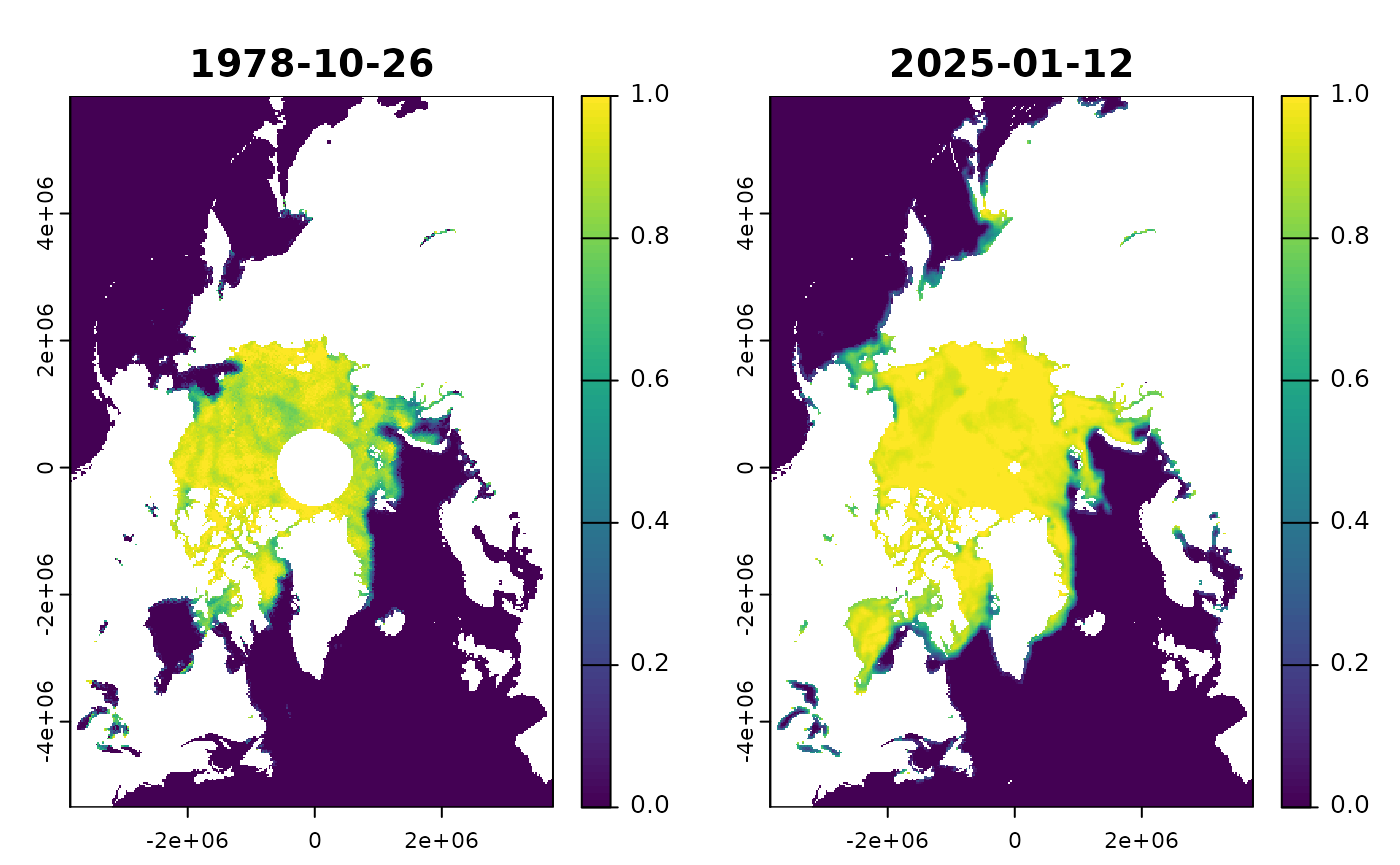
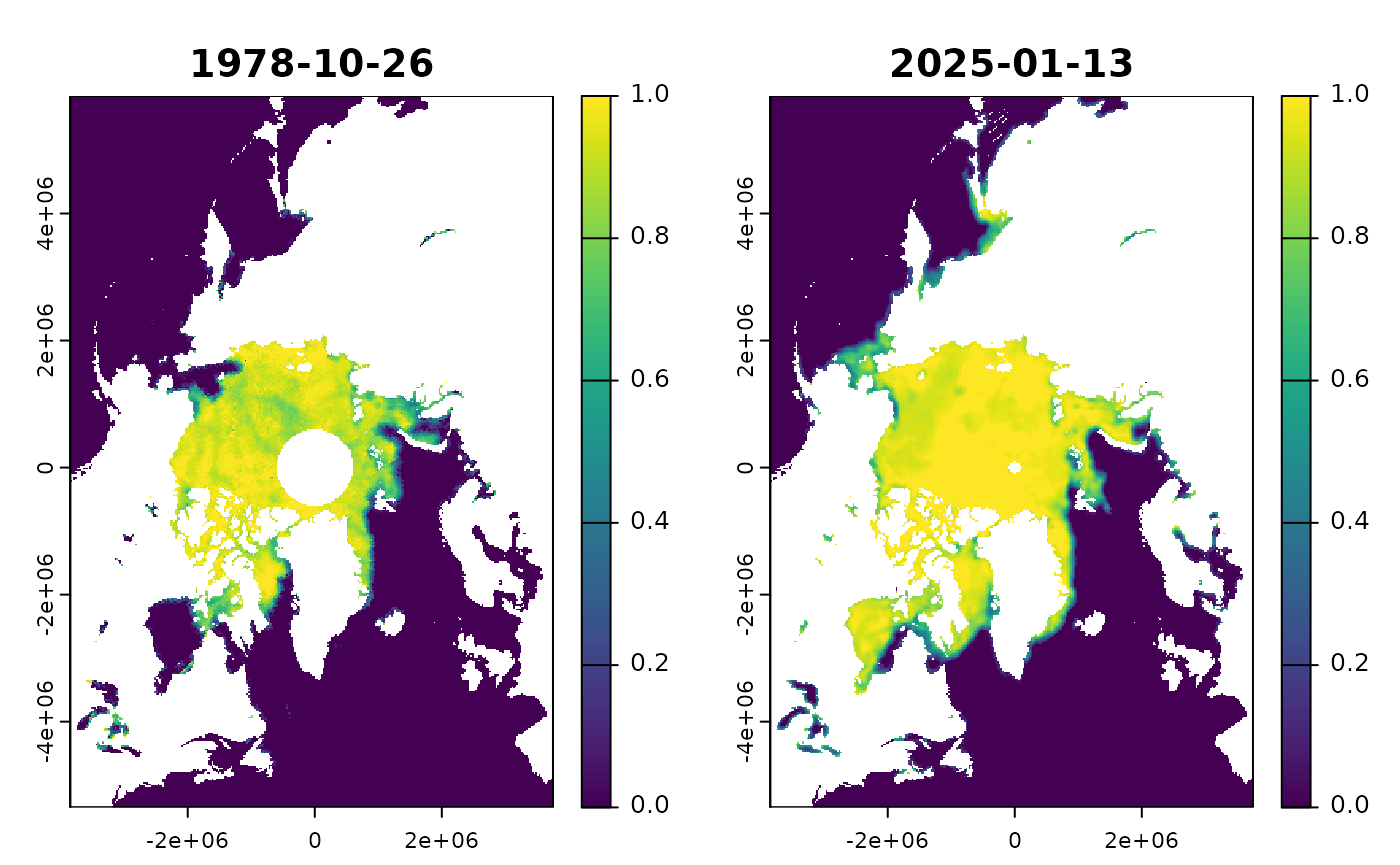
Deploying to gh-pages from @ mdsumner/sooty.watch@501e9f09278984d0c46638ced37482917cf369a6 🚀

diff --git a/articles/sooty-watch.html b/articles/sooty-watch.html
@@ -81,26 +81,28 @@
 <div class="sourceCode" id="cb1"><pre class="downlit sourceCode r">
 <code class="sourceCode R"><span><span class="kw"><a href="https://rdrr.io/r/base/library.html" class="external-link">library</a></span><span class="op">(</span><span class="va"><a href="https://github.com/mdsumner/sooty.watch" class="external-link">sooty.watch</a></span><span class="op">)</span></span>
 <span><span class="fu"><a href="../reference/watch.html">watch_curated</a></span><span class="op">(</span><span class="op">)</span></span>
-<span><span class="co">#&gt; <span style="color: #949494;"># A tibble: 6 × 4</span></span></span>
+<span><span class="co">#&gt; <span style="color: #949494;"># A tibble: 7 × 4</span></span></span>
 <span><span class="co">#&gt;   Dataset                        mindate             maxdate                 n</span></span>
 <span><span class="co">#&gt;   <span style="color: #949494; font-style: italic;">&lt;chr&gt;</span>                          <span style="color: #949494; font-style: italic;">&lt;dttm&gt;</span>              <span style="color: #949494; font-style: italic;">&lt;dttm&gt;</span>              <span style="color: #949494; font-style: italic;">&lt;int&gt;</span></span></span>
-<span><span class="co">#&gt; <span style="color: #BCBCBC;">1</span> ghrsst-tif                     2002-06-01 <span style="color: #949494;">00:00:00</span> 2025-01-13 <span style="color: #949494;">00:00:00</span>  <span style="text-decoration: underline;">1</span>953</span></span>
-<span><span class="co">#&gt; <span style="color: #BCBCBC;">2</span> NSIDC_SEAICE_PS_N25km          1978-10-26 <span style="color: #949494;">00:00:00</span> 2025-01-12 <span style="color: #949494;">00:00:00</span> <span style="text-decoration: underline;">16</span>875</span></span>
-<span><span class="co">#&gt; <span style="color: #BCBCBC;">3</span> NSIDC_SEAICE_PS_S25km          1978-10-26 <span style="color: #949494;">00:00:00</span> 2025-01-12 <span style="color: #949494;">00:00:00</span> <span style="text-decoration: underline;">16</span>875</span></span>
-<span><span class="co">#&gt; <span style="color: #BCBCBC;">4</span> antarctica-amsr2-asi-s3125-tif 2012-07-02 <span style="color: #949494;">00:00:00</span> 2025-01-12 <span style="color: #949494;">00:00:00</span>  <span style="text-decoration: underline;">4</span>567</span></span>
+<span><span class="co">#&gt; <span style="color: #BCBCBC;">1</span> NSIDC_SEAICE_PS_N25km          1978-10-26 <span style="color: #949494;">00:00:00</span> 2025-01-13 <span style="color: #949494;">00:00:00</span> <span style="text-decoration: underline;">16</span>876</span></span>
+<span><span class="co">#&gt; <span style="color: #BCBCBC;">2</span> NSIDC_SEAICE_PS_S25km          1978-10-26 <span style="color: #949494;">00:00:00</span> 2025-01-13 <span style="color: #949494;">00:00:00</span> <span style="text-decoration: underline;">16</span>876</span></span>
+<span><span class="co">#&gt; <span style="color: #BCBCBC;">3</span> antarctica-amsr2-asi-s3125-tif 2012-07-02 <span style="color: #949494;">00:00:00</span> 2025-01-13 <span style="color: #949494;">00:00:00</span>  <span style="text-decoration: underline;">4</span>568</span></span>
+<span><span class="co">#&gt; <span style="color: #BCBCBC;">4</span> ghrsst-tif                     2002-06-01 <span style="color: #949494;">00:00:00</span> 2025-01-13 <span style="color: #949494;">00:00:00</span>  <span style="text-decoration: underline;">3</span>403</span></span>
 <span><span class="co">#&gt; <span style="color: #BCBCBC;">5</span> oisst-avhrr-v02r01             1981-09-01 <span style="color: #949494;">00:00:00</span> 2025-01-07 <span style="color: #949494;">00:00:00</span> <span style="text-decoration: underline;">15</span>835</span></span>
-<span><span class="co">#&gt; <span style="color: #BCBCBC;">6</span> SEALEVEL_GLO_PHY_L4            1993-01-01 <span style="color: #949494;">00:00:00</span> 2024-11-25 <span style="color: #949494;">00:00:00</span> <span style="text-decoration: underline;">11</span>538</span></span>
+<span><span class="co">#&gt; <span style="color: #BCBCBC;">6</span> oisst-tif                      1981-09-01 <span style="color: #949494;">00:00:00</span> 2025-01-07 <span style="color: #949494;">00:00:00</span> <span style="text-decoration: underline;">15</span>835</span></span>
+<span><span class="co">#&gt; <span style="color: #BCBCBC;">7</span> SEALEVEL_GLO_PHY_L4            1993-01-01 <span style="color: #949494;">00:00:00</span> 2024-11-25 <span style="color: #949494;">00:00:00</span> <span style="text-decoration: underline;">11</span>538</span></span>
 <span></span>
 <span><span class="fu"><a href="../reference/watch.html">watch_buckets</a></span><span class="op">(</span><span class="op">)</span></span>
-<span><span class="co">#&gt; <span style="color: #949494;"># A tibble: 6 × 2</span></span></span>
+<span><span class="co">#&gt; <span style="color: #949494;"># A tibble: 7 × 2</span></span></span>
 <span><span class="co">#&gt;   Bucket                                                n</span></span>
 <span><span class="co">#&gt;   <span style="color: #949494; font-style: italic;">&lt;chr&gt;</span>                                             <span style="color: #949494; font-style: italic;">&lt;int&gt;</span></span></span>
-<span><span class="co">#&gt; <span style="color: #BCBCBC;">1</span> idea-10.5067-mpyg15waa4wx                         <span style="text-decoration: underline;">33</span>750</span></span>
+<span><span class="co">#&gt; <span style="color: #BCBCBC;">1</span> idea-10.5067-mpyg15waa4wx                         <span style="text-decoration: underline;">33</span>752</span></span>
 <span><span class="co">#&gt; <span style="color: #BCBCBC;">2</span> idea-10.7289-v5sq8xb5                             <span style="text-decoration: underline;">15</span>835</span></span>
-<span><span class="co">#&gt; <span style="color: #BCBCBC;">3</span> idea-sealevel-glo-phy-l4-rep-observations-008-047 <span style="text-decoration: underline;">11</span>208</span></span>
-<span><span class="co">#&gt; <span style="color: #BCBCBC;">4</span> idea-amsr2-asi-s3125                               <span style="text-decoration: underline;">4</span>567</span></span>
-<span><span class="co">#&gt; <span style="color: #BCBCBC;">5</span> idea-ghrsst                                        <span style="text-decoration: underline;">1</span>953</span></span>
-<span><span class="co">#&gt; <span style="color: #BCBCBC;">6</span> idea-sealevel-glo-phy-l4-nrt-008-046                330</span></span></code></pre></div>
+<span><span class="co">#&gt; <span style="color: #BCBCBC;">3</span> idea-oisst                                        <span style="text-decoration: underline;">15</span>835</span></span>
+<span><span class="co">#&gt; <span style="color: #BCBCBC;">4</span> idea-sealevel-glo-phy-l4-rep-observations-008-047 <span style="text-decoration: underline;">11</span>208</span></span>
+<span><span class="co">#&gt; <span style="color: #BCBCBC;">5</span> idea-amsr2-asi-s3125                               <span style="text-decoration: underline;">4</span>568</span></span>
+<span><span class="co">#&gt; <span style="color: #BCBCBC;">6</span> idea-ghrsst                                        <span style="text-decoration: underline;">3</span>403</span></span>
+<span><span class="co">#&gt; <span style="color: #BCBCBC;">7</span> idea-sealevel-glo-phy-l4-nrt-008-046                330</span></span></code></pre></div>
 <p>For each dataset, let’s get the first and last and plot.</p>
 <div class="sourceCode" id="cb2"><pre class="downlit sourceCode r">
 <code class="sourceCode R"><span><span class="kw"><a href="https://rdrr.io/r/base/library.html" class="external-link">library</a></span><span class="op">(</span><span class="va"><a href="https://dplyr.tidyverse.org" class="external-link">dplyr</a></span><span class="op">)</span></span>
@@ -115,7 +117,7 @@
 <span><span class="fu">dplyr</span><span class="fu">::</span><span class="fu"><a href="https://dplyr.tidyverse.org/reference/group_map.html" class="external-link">group_map</a></span><span class="op">(</span><span class="va">datasets</span>, \<span class="op">(</span><span class="va">.x</span>, <span class="va">...</span><span class="op">)</span> <span class="kw"><a href="https://rdrr.io/r/base/try.html" class="external-link">try</a></span><span class="op">(</span><span class="fu">terra</span><span class="fu">::</span><span class="fu"><a href="https://rspatial.github.io/terra/reference/plot.html" class="external-link">plot</a></span><span class="op">(</span><span class="fu"><a href="https://rdrr.io/r/base/do.call.html" class="external-link">do.call</a></span><span class="op">(</span><span class="va">c</span>, <span class="fu"><a href="https://rdrr.io/r/base/lapply.html" class="external-link">lapply</a></span><span class="op">(</span><span class="fu">th</span><span class="op">(</span><span class="va">.x</span><span class="op">)</span><span class="op">$</span><span class="va">source</span>, <span class="va">read1</span><span class="op">)</span><span class="op">)</span><span class="op">)</span><span class="op">)</span><span class="op">)</span></span></code></pre></div>
 <p><img src="sooty-watch_files/figure-html/datasets-1.png" width="700"><img src="sooty-watch_files/figure-html/datasets-2.png" width="700"><img src="sooty-watch_files/figure-html/datasets-3.png" width="700"></p>
 <pre><code><span><span class="co">#&gt; Warning: [rast] CRS do not match</span></span></code></pre>
-<p><img src="sooty-watch_files/figure-html/datasets-4.png" width="700"><img src="sooty-watch_files/figure-html/datasets-5.png" width="700"><img src="sooty-watch_files/figure-html/datasets-6.png" width="700"></p>
+<p><img src="sooty-watch_files/figure-html/datasets-4.png" width="700"><img src="sooty-watch_files/figure-html/datasets-5.png" width="700"><img src="sooty-watch_files/figure-html/datasets-6.png" width="700"><img src="sooty-watch_files/figure-html/datasets-7.png" width="700"></p>
 <pre><code><span><span class="co">#&gt; [[1]]</span></span>
 <span><span class="co">#&gt; NULL</span></span>
 <span><span class="co">#&gt; </span></span>
@@ -132,6 +134,9 @@
 <span><span class="co">#&gt; NULL</span></span>
 <span><span class="co">#&gt; </span></span>
 <span><span class="co">#&gt; [[6]]</span></span>
+<span><span class="co">#&gt; NULL</span></span>
+<span><span class="co">#&gt; </span></span>
+<span><span class="co">#&gt; [[7]]</span></span>
 <span><span class="co">#&gt; NULL</span></span></code></pre>
 <p>nl</p>
   </div>

diff --git a/reference/watch.html b/reference/watch.html
@@ -69,15 +69,16 @@
     <div id="ref-examples">
     <h2>Examples</h2>
     <div class="sourceCode"><pre class="sourceCode r"><code><span class="r-in"><span><span class="fu">watch_curated</span><span class="op">(</span><span class="op">)</span></span></span>
-<span class="r-out co"><span class="r-pr">#&gt;</span> <span style="color: #949494;"># A tibble: 6 × 4</span></span>
+<span class="r-out co"><span class="r-pr">#&gt;</span> <span style="color: #949494;"># A tibble: 7 × 4</span></span>
 <span class="r-out co"><span class="r-pr">#&gt;</span>   Dataset                        mindate             maxdate                 n</span>
 <span class="r-out co"><span class="r-pr">#&gt;</span>   <span style="color: #949494; font-style: italic;">&lt;chr&gt;</span>                          <span style="color: #949494; font-style: italic;">&lt;dttm&gt;</span>              <span style="color: #949494; font-style: italic;">&lt;dttm&gt;</span>              <span style="color: #949494; font-style: italic;">&lt;int&gt;</span></span>
-<span class="r-out co"><span class="r-pr">#&gt;</span> <span style="color: #BCBCBC;">1</span> ghrsst-tif                     2002-06-01 <span style="color: #949494;">00:00:00</span> 2025-01-13 <span style="color: #949494;">00:00:00</span>  <span style="text-decoration: underline;">1</span>953</span>
-<span class="r-out co"><span class="r-pr">#&gt;</span> <span style="color: #BCBCBC;">2</span> NSIDC_SEAICE_PS_N25km          1978-10-26 <span style="color: #949494;">00:00:00</span> 2025-01-12 <span style="color: #949494;">00:00:00</span> <span style="text-decoration: underline;">16</span>875</span>
-<span class="r-out co"><span class="r-pr">#&gt;</span> <span style="color: #BCBCBC;">3</span> NSIDC_SEAICE_PS_S25km          1978-10-26 <span style="color: #949494;">00:00:00</span> 2025-01-12 <span style="color: #949494;">00:00:00</span> <span style="text-decoration: underline;">16</span>875</span>
-<span class="r-out co"><span class="r-pr">#&gt;</span> <span style="color: #BCBCBC;">4</span> antarctica-amsr2-asi-s3125-tif 2012-07-02 <span style="color: #949494;">00:00:00</span> 2025-01-12 <span style="color: #949494;">00:00:00</span>  <span style="text-decoration: underline;">4</span>567</span>
+<span class="r-out co"><span class="r-pr">#&gt;</span> <span style="color: #BCBCBC;">1</span> NSIDC_SEAICE_PS_N25km          1978-10-26 <span style="color: #949494;">00:00:00</span> 2025-01-13 <span style="color: #949494;">00:00:00</span> <span style="text-decoration: underline;">16</span>876</span>
+<span class="r-out co"><span class="r-pr">#&gt;</span> <span style="color: #BCBCBC;">2</span> NSIDC_SEAICE_PS_S25km          1978-10-26 <span style="color: #949494;">00:00:00</span> 2025-01-13 <span style="color: #949494;">00:00:00</span> <span style="text-decoration: underline;">16</span>876</span>
+<span class="r-out co"><span class="r-pr">#&gt;</span> <span style="color: #BCBCBC;">3</span> antarctica-amsr2-asi-s3125-tif 2012-07-02 <span style="color: #949494;">00:00:00</span> 2025-01-13 <span style="color: #949494;">00:00:00</span>  <span style="text-decoration: underline;">4</span>568</span>
+<span class="r-out co"><span class="r-pr">#&gt;</span> <span style="color: #BCBCBC;">4</span> ghrsst-tif                     2002-06-01 <span style="color: #949494;">00:00:00</span> 2025-01-13 <span style="color: #949494;">00:00:00</span>  <span style="text-decoration: underline;">3</span>403</span>
 <span class="r-out co"><span class="r-pr">#&gt;</span> <span style="color: #BCBCBC;">5</span> oisst-avhrr-v02r01             1981-09-01 <span style="color: #949494;">00:00:00</span> 2025-01-07 <span style="color: #949494;">00:00:00</span> <span style="text-decoration: underline;">15</span>835</span>
-<span class="r-out co"><span class="r-pr">#&gt;</span> <span style="color: #BCBCBC;">6</span> SEALEVEL_GLO_PHY_L4            1993-01-01 <span style="color: #949494;">00:00:00</span> 2024-11-25 <span style="color: #949494;">00:00:00</span> <span style="text-decoration: underline;">11</span>538</span>
+<span class="r-out co"><span class="r-pr">#&gt;</span> <span style="color: #BCBCBC;">6</span> oisst-tif                      1981-09-01 <span style="color: #949494;">00:00:00</span> 2025-01-07 <span style="color: #949494;">00:00:00</span> <span style="text-decoration: underline;">15</span>835</span>
+<span class="r-out co"><span class="r-pr">#&gt;</span> <span style="color: #BCBCBC;">7</span> SEALEVEL_GLO_PHY_L4            1993-01-01 <span style="color: #949494;">00:00:00</span> 2024-11-25 <span style="color: #949494;">00:00:00</span> <span style="text-decoration: underline;">11</span>538</span>
 </code></pre></div>
     </div>
   </div>
